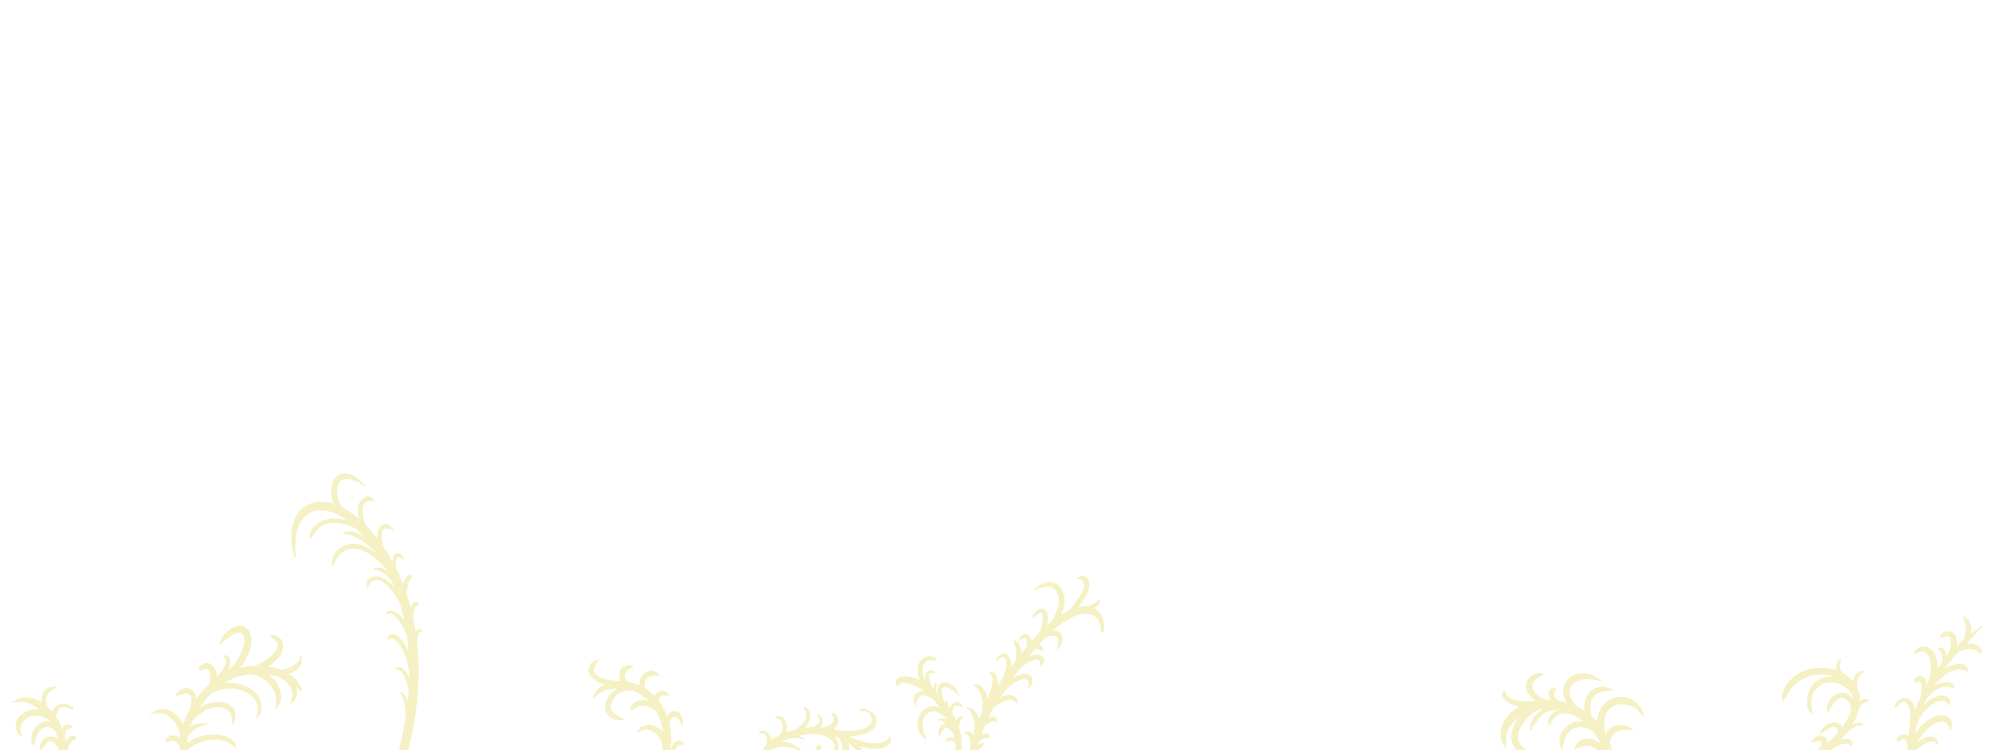
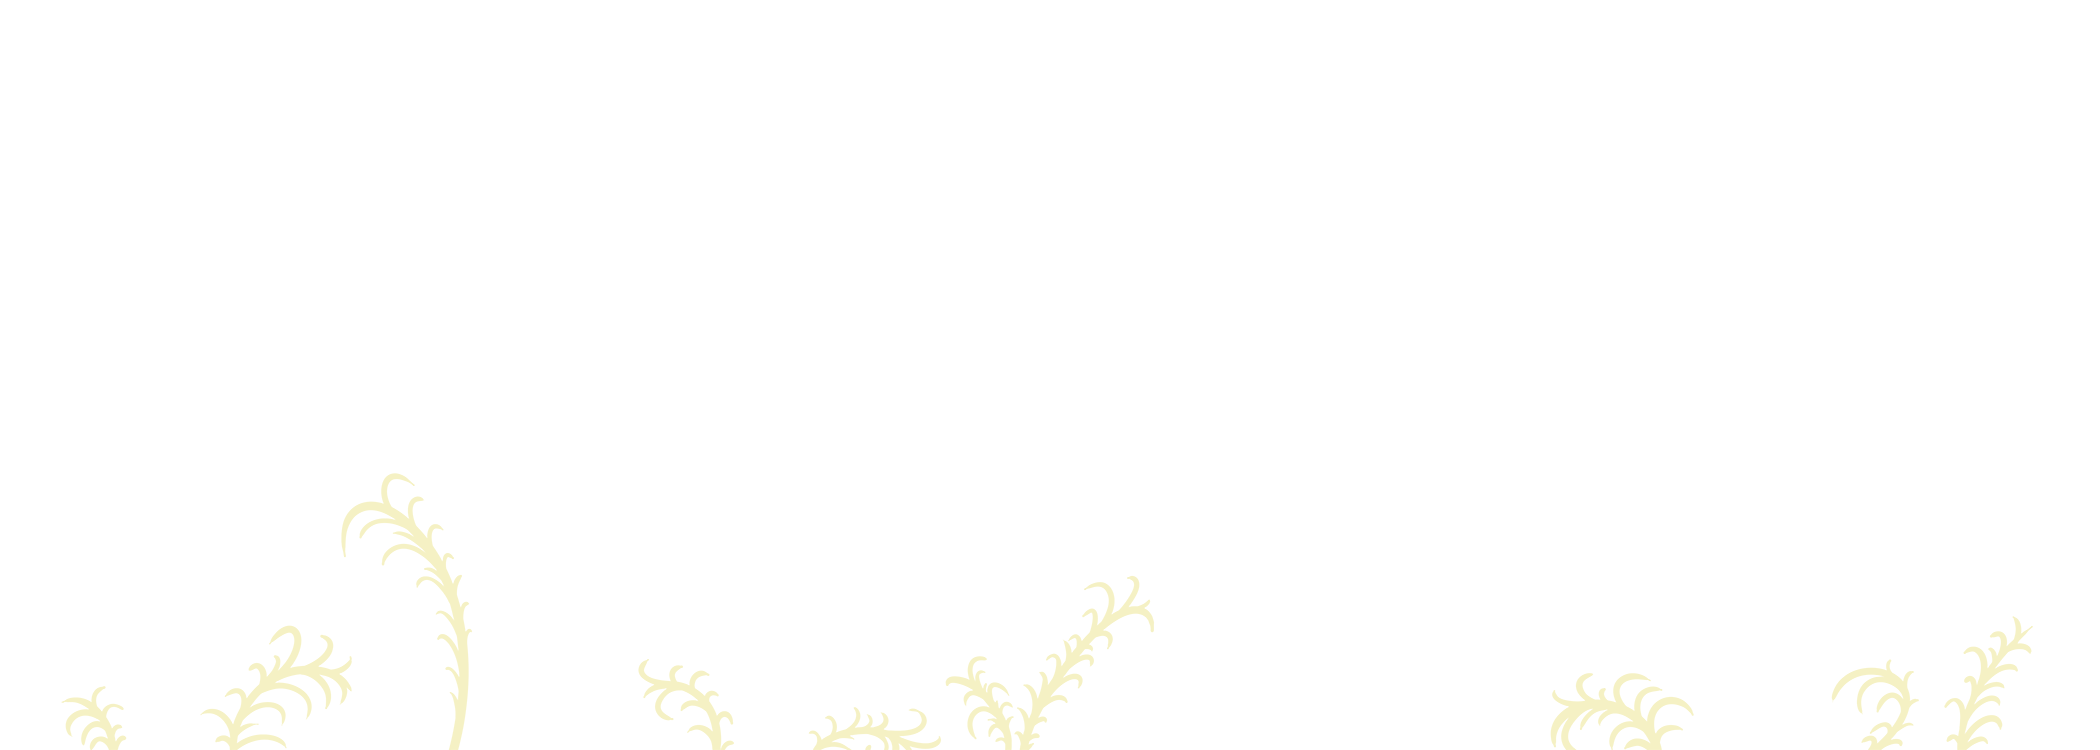
intro programmed

diff --git a/index.js b/index.js
@@ -1,9 +1,12 @@
 // it's just easier to keep track when you make the width of the canvas a variable
 const CANVAS_WIDTH = 1500;
-const IMG_WIDTH = 2000;
+const CANVAS_HEIGHT = 750;
+const IMG_WIDTH = 2050;
 const LEFT_BORDER = 300;
 const RIGHT_BORDER = 1200;
 const NUM_IMAGES = 11;
+
+let font;
 
 class Location {
   constructor(mult) {
@@ -15,6 +18,12 @@ class Location {
 let locationArray = [];
 let imageArray = [];
 
+let worldBot;
+
+let state = "intro";
+let fade = 0;
+let fadeState = "";
+
 function preload() {
   // Init Images
   for (let i = 1; i < NUM_IMAGES + 1; i++) {
@@ -25,14 +34,79 @@ function preload() {
   for (let i = 0; i < 11; i++) {
     locationArray.push(new Location(i));
   }
+
+  worldBot = loadImage("logo-ring.png");
+
+  font = loadFont("RobotoMono.ttf");
 }
+
 function setup() {
-  createCanvas(CANVAS_WIDTH, 1000);
+  createCanvas(CANVAS_WIDTH, CANVAS_HEIGHT);
+
+  textFont(font, 36);
+  textAlign(CENTER);
 }
 
 function draw() {
   clear();
 
+  switch (state) {
+    case "panorama":
+      drawPanorama();
+      break;
+    case "intro":
+      drawIntro();
+      break;
+    default:
+      break;
+  }
+
+  if (fadeState !== "") {
+    if (fade > 350) {
+      fadeState = "fade-out";
+      state = "panorama";
+    }
+    fill(0, fade);
+
+    fadeState === "fade-in" ? (fade += 1) : (fade -= 0.5);
+
+    rect(0, 0, CANVAS_WIDTH, CANVAS_HEIGHT);
+  }
+}
+
+function mouseReleased() {
+  if (state === "intro") {
+    if (mouseX > 550 && mouseX < 950 && mouseY > 145 && mouseY < 605) {
+      worldBot = loadImage("happy_emoji.png");
+      floatSpeed = 4;
+      floatHeight = 50;
+      fadeState = "fade-in";
+    }
+  }
+}
+
+let floatTimer = 0;
+let floatSpeed = 1;
+let floatHeight = 30;
+const drawIntro = () => {
+  background("#592AB3");
+
+  floatTimer += 0.04;
+
+  let worldBotYChange = Math.sin(floatTimer * floatSpeed) * floatHeight;
+  image(worldBot, 550, 175 + worldBotYChange, 400, 400);
+
+  fill(0);
+  text(
+    "Hi! I'm world bot. I want to show you one of my worlds.",
+    150,
+    305,
+    300
+  );
+  text("Please click me and get ready to enter.", 1000, 305, 300);
+};
+
+const drawPanorama = () => {
   // if the mouse moves to the left, the images move slightly to the right
   if (mouseX < LEFT_BORDER) {
     locationArray.forEach((layer, idx) => {
@@ -53,4 +127,4 @@ function draw() {
   for (let i = NUM_IMAGES - 1; i > -1; i--) {
     image(imageArray[i], locationArray[i].x, 0);
   }
-}
+};
